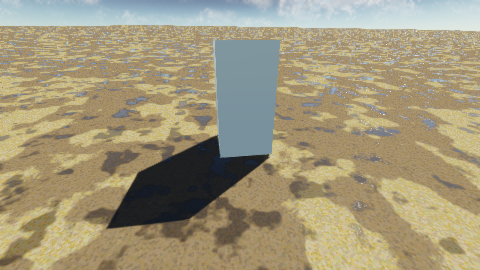
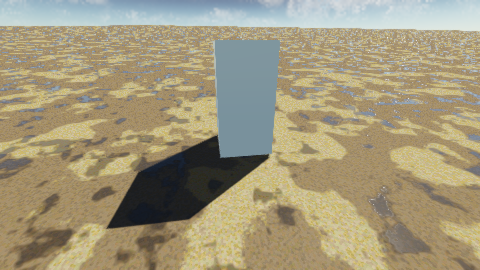
Docs: the tile landscape's material path, state on 22.11. (what each backend does, numbers, pictures, gaps)

diff --git a/docs/landscape-tile-material-state-2026-11-22.md b/docs/landscape-tile-material-state-2026-11-22.md
@@ -1,0 +1,65 @@
+# Tile landscape through the material pipeline: state on 2026-11-22 (Thema 326)
+
+Follows `docs/landscape-tile-material-design-2026-11-21.md` (design, Metal map, Vulkan / OpenGL survey). This file is the state
+after the second session; where the two disagree, this one is right.
+
+## Handoff
+
+**State**: the tile landscape's ground is a surface like any other on Metal (material, shadows both ways, GI, SSAO, velocity,
+G-buffer, fog), is drawn with its material on Vulkan in the scene pass, and builds for OpenGL where the driver has the samplers.
+Branch `claude/landscape-weltmassstab-100km`, up to `1e118e0a6`.
+
+**What each backend does** (`IRenderer::Capabilities`)
+
+| | `landscapeMaterial` | `landscapePasses` | verified |
+|---|---|---|---|
+| Metal | yes | yes: shadow maps, GI pre-pass, ray structure, SSAO, velocity, G-buffer | M5, pictures + numbers |
+| Vulkan | yes (scene pass, forward draw also on a deferred frame) | no | MoltenVK, pictures + numbers; frame-to-frame noise, see below |
+| OpenGL | where `GL_MAX_TEXTURE_IMAGE_UNITS` >= 24 | no | NOT RUN anywhere: macOS GL 4.1 has 16 and is gated off |
+| D3D11 / D3D12 | no | no | nothing built |
+
+**What was added since the 21st** (file: function)
+* Floating origin: `MaterialShaderLibrary::Lighting::worldOrigin`, `RenderWorld::worldOrigin`, filled in `FillMaterialLightWindow`
+  (`LightPacking.cpp`) for every backend; the generator's World Position and world fbm add it (`MaterialGraph.cpp`, the two
+  `heLight.worldOrigin` lines). The five `M_AutoLandscape*.hasset` are regenerated. Metal's G-buffer block sets it by hand
+  (`EncodeGBuffer`); **other backends' reduced G-buffer fills were not looked at**.
+* Metal: `EncodeLandscapePass(encoder, clip, kind, aux0, aux1)` kinds 0-4, `EncodeLandscapeGBuffer`, `BindLandscapeMaterial`,
+  `m_giLandMesh` in `EncodeGIAccelBuild`; `kLandscapeMSL`: `lsWorldRel`, `vertexVelocity`, `fragmentVelocity`, `fragmentViewPos`,
+  `fragmentViewPosMrt`, `fragmentGiGBuf`, `LsGlobals::aux0/aux1`.
+* GI colour: `RenderWorld::tileLandscapeIndex` (an entry of `landscapes` for an Auto Landscape material, `RenderExtractor.cpp`).
+* Vulkan: `m_lsMatSetLayout` / `m_lsMatPipelineLayout` (`createMaterialResources`), `GetOrBuildLandscapeMaterialPipeline`,
+  `lsDraw` hooks in `drawDCVk`, `VulkanLandscape::materialImages` / `drawPatches`. SPIR-V form of the shaders: images without a
+  sampler (`landscapeSeparateImages`), `LsPatch` as push constant.
+* OpenGL: `GetOrBuildLandscapeMaterialProgram`, `OpenGLLandscape::Shading::materialProgram`; the landscape unbinds its units.
+* Speed: slot looked up once a fragment (`heLsFind`), one filtered read on Metal (`HE_LS_FILTERED`), no discard (vertex clamp),
+  `heLsWeightOnePage` reads nothing.
+* Tools: tile brush Roughen, Ramp (`TerrainSculpt::ramp`), Mountain (`TerrainGenerate::mountain`).
+* `landscape_gpu_check --timing`, `HE_LANDSCAPE_PASSES=0`.
+
+**Verified** (Apple M5; `he_tests` 6509/6509; `landscape_gpu_check --arrays EditorDeps/EngineContent` exit 0)
+* Metal, forward and deferred: marker material 112 073 of 129 600 px; box shadow 4 686 px; ground casts 150 vs 223/255; GI on:
+  shadow 4 907 px, ground casts 113 vs 218/255; SSAO 26 739 px; plane does not shadow itself (60 of 112 245 px); fog 66.7/255;
+  Auto Landscape through `LandscapeWorldComponent` + `update(world)`; origin shift 0.05/255 (was 22.8).
+* Vulkan (MoltenVK): marker 113 523 px, Auto Landscape draws, fog, origin 0.05/255, deferred picture equals Metal's.
+* Frame times, 1600 x 900, median of 60 with read-back: fixed blend 5.8 ms; material 14.1 (35.2 before the three fixes); material
+  in the scene pass alone 13.0; a `TerrainComponent` landscape of 2 x 2 km with the same material 11.1.
+
+**Not verified**
+* The ground's velocity (TAA) and the ray-traced reflection of the ground: both pictures come out equal with and without, the
+  capture path does not show them. Built, unproven.
+* Vulkan forward on MoltenVK draws the BOX black, with or without the material path (picture `..._fixedblend.png`), and its
+  shadow and origin numbers vary between runs (origin 0.05 to 2.9). Not looked into; real Vulkan on NN-WS03 should say.
+* Any OpenGL run, D3D, Windows, the editor by hand, an export.
+
+**Known gaps**
+* The baked far image is not read while a material draws; RVT: the ground reads no virtual texture. Both cost time, not correctness.
+* GI: 2 km of clipmap at half resolution in the ray structure; SW ray path without it; no terrain entry for non-Auto materials.
+* Vulkan / OpenGL: no `landscapePasses`. D3D: nothing.
+* Tools on tiles still missing: foliage density mask, water brush and lakes, heightmap import onto an existing world.
+* The first frame with a new material compiles on the render thread.
+
+**Next steps**
+1. Far image photographed from the material, read by the variant for ground outside the atlas.
+2. RVT for the tile ground.
+3. `landscapePasses` on Vulkan (shadow layers `drawDepthLayer`, GI raster in `runGi`, G-buffer), then D3D.
+4. Foliage mask, water, import on tiles.
